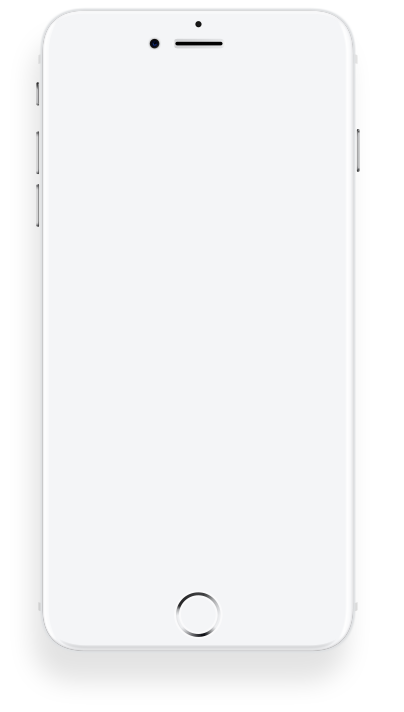
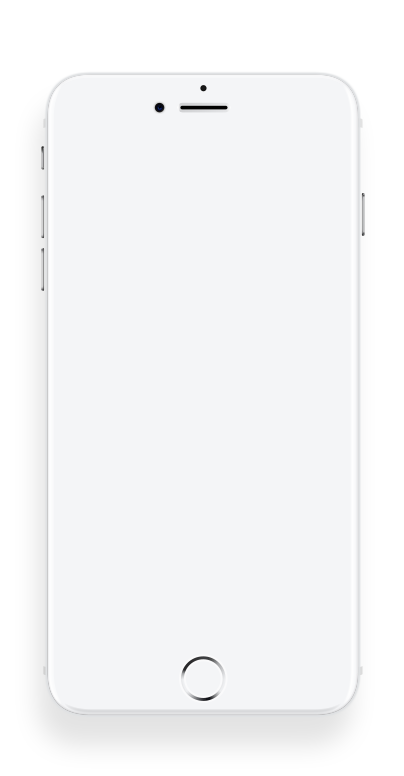
our brands

diff --git a/index.html b/index.html
@@ -118,5 +118,24 @@
                 </div>
             </div>
         </div>
+
+        <div class="uk-section">
+            <div class="uk-container uk-padding-large">
+                <div class="uk-grid">
+                    <div class="uk-width-1-2">
+                        <h1>Our Brands</h1>
+                        <h4>Small Shoes 2017 new Arrivals  mini<br>Messenger <span class="uk-text-purple-light">Classic Shoes</span></h4>
+                        <p>In porttitor elit ac mi placerat hendrerit. Morbi accumsan, erat in ullamcorper consectetur, nisi erat efficitur eros, sagittis tristique odio turpis vitae dui. Vestibulum gravida est ut erat pretium, non pretium diam feugiat. Integer egestas suscipit lorem ac fermentum. Integer at mauris vitae justo sagittis dapibus. Pellentesque sit amet nisl vitae orci vehicula faucibus. Fusce et lat, feugiat est.</p>
+                    </div> 
+                    <div class="uk-width-1-2">
+                        <div class="uk-position-absolute uk-margin-minus">
+                            <img class="uk-position-top-right-out-25-15 z-index-minus-1" src="assets/img/circle.png">
+                            <img src="assets/img/phone.png">
+                            <img class="uk-position-center" src="assets/img/screen.png">
+                        </div>
+                    </div>
+                </div>
+            </div>
+        </div>
     </body>
 </html>

diff --git a/assets/css/main.css b/assets/css/main.css
@@ -20,12 +20,33 @@ body {
 @font-face {
   font-family: "RobotoBold";
   src: url(../fonts/Roboto-Bold.ttf); }
-/*TITLE*/
+/*MAIN*/
+.uk-position-top-right-out {
+  transform: translate(100%, -100%);
+  -webkit-transform: translate(100%, -100%); }
+
+.uk-position-top-right-out-25 {
+  transform: translate(25%, -25%);
+  -webkit-transform: translate(25%, -25%); }
+
+.uk-position-top-right-out-25-15 {
+  transform: translate(25%, -15%);
+  -webkit-transform: translate(25%, -15%); }
+
+/*TEXT*/
 h1, h2, h3, h4, h5 {
   font-family: "OpenSansBold"; }
 
 h1 {
   font-size: 50px; }
+
+h4 {
+  font-family: "OpenSansRegular";
+  font-size: 25px; }
+
+p {
+  color: #888888;
+  line-height: 2.4; }
 
 /*PROMO SECTION*/
 #promo-section {
@@ -121,6 +142,9 @@ input[type="search"]:-ms-input-placeholder {
 
 .uk-text-purple {
   color: #7048e2; }
+
+.uk-text-purple-light {
+  color: #8d83f9; }
 
 .uk-button {
   font-size: 20px;

diff --git a/assets/scss/main.scss b/assets/scss/main.scss
@@ -38,7 +38,23 @@ body{
     src: url(../fonts/Roboto-Bold.ttf);
 }
 
-/*TITLE*/
+/*MAIN*/
+.uk-position-top-right-out{
+    transform: translate(100%, -100%);
+    -webkit-transform: translate(100%, -100%);
+}
+
+.uk-position-top-right-out-25{
+    transform: translate(25%, -25%);
+    -webkit-transform: translate(25%, -25%);
+}
+
+.uk-position-top-right-out-25-15{
+    transform: translate(25%, -15%);
+    -webkit-transform: translate(25%, -15%);
+}
+
+/*TEXT*/
 h1, h2, h3, h4, h5{
     font-family: $heading;
 }
@@ -47,6 +63,15 @@ h1{
     font-size: 50px;
 }
 
+h4{
+    font-family: "OpenSansRegular";
+    font-size: 25px;
+}
+
+p{
+    color: #888888;
+    line-height: 2.4;
+}
 
 /*PROMO SECTION*/
 
@@ -175,6 +200,10 @@ input[type="search"] {
 
 .uk-text-purple{
     color: #7048e2;
+}
+
+.uk-text-purple-light{
+    color: #8d83f9;
 }
 
 .uk-button{
